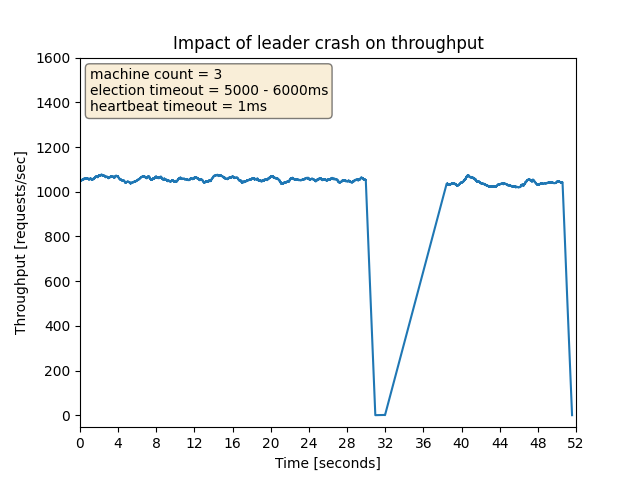
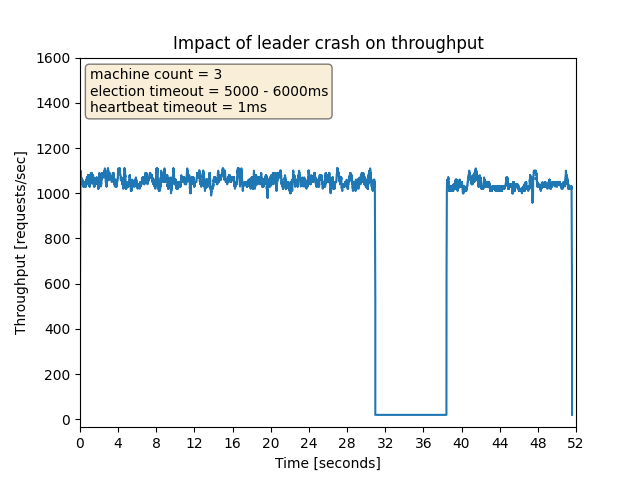
Plot correct

diff --git a/plotting-script/plotting.py b/plotting-script/plotting.py
@@ -22,28 +22,37 @@ def plotThrouhputOverTime():
     # allCSVs = Path.glob(raftHome, "*.csv")
 
     # my_csv = str(next(allCSVs)) # update this with correct csv path
-    my_csv = '/users/mpatel48/replicated-database/plotting-script/data/crash_impact_election_timeout_2-3/clientLatency_980.csv'
+    my_csv = '/users/amondal5/replicated-database/plotting-script/data/crash_impact_election_timeout_2-3/clientLatency_980.csv'
     df = pd.read_csv(my_csv)
     df = df.sort_values(by=[col_end]).reset_index()
     df = df[(df != -1).all(1)].reset_index()
-    rolling_window = 1000*1000; # 1s
+    # rolling_window = 1000*1000; # 1s
+    rolling_window = 100*1000 #0.1s
 
     thrput = np.array([])
     time_in_sec = np.array([])
 
     initial_time_microseconds = df[col_end][0]
     for val in df[col_end]:
-        col_less_than = df[col_end] < (val + rolling_window)
-        col_great_than = val <= df[col_end]
+        col_less_than = df[col_end] < (val + (rolling_window/2) )
+        col_great_than = (val - (rolling_window/2)) <= df[col_end]
         col = np.logical_and(col_less_than, col_great_than)
         
         thrput = np.append(thrput, col.sum())
-        time_relative_sec = (val - initial_time_microseconds) / rolling_window
+        time_relative_sec = (val - initial_time_microseconds) / (1000*1000)
         time_in_sec = np.append(time_in_sec, time_relative_sec)
     
     # Plt this time series
+    # val = thrput[np.logical_and((time_in_sec < 39),(time_in_sec > 31))]
+    # for i,v in enumerate(val):
+    #     print(f'{i}: {v}')
+    # thrput = 
+    # for i, t in enumerate(thrput):
+    #     if (t == 52.0):
+    #         thrput[]
+    thrput[thrput == 52.0] = 2.0
     plt.clf()
-    plt.plot(time_in_sec, thrput)
+    plt.plot(time_in_sec, 10*thrput)
     plt.xlabel("Time [seconds]")
     plt.ylabel("Throughput [requests/sec]")
     plt.xlim([0,int(np.max(time_in_sec))+1])
@@ -106,6 +115,6 @@ def plotLatVsThrput():
     plt.savefig("Throughput_vs_99_Percentile_Latency.png")
 
 if __name__ == "__main__":
-    plotLatVsThrput()
+    # plotLatVsThrput()
     plotThrouhputOverTime()
     
